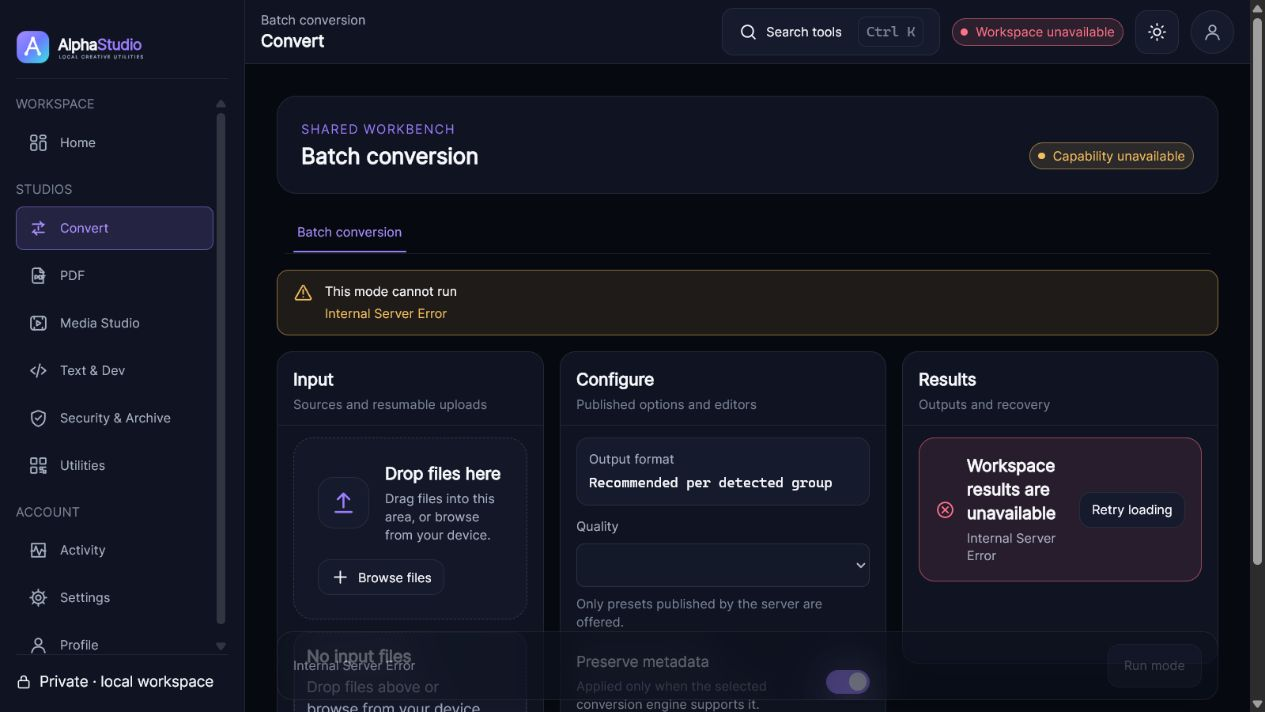
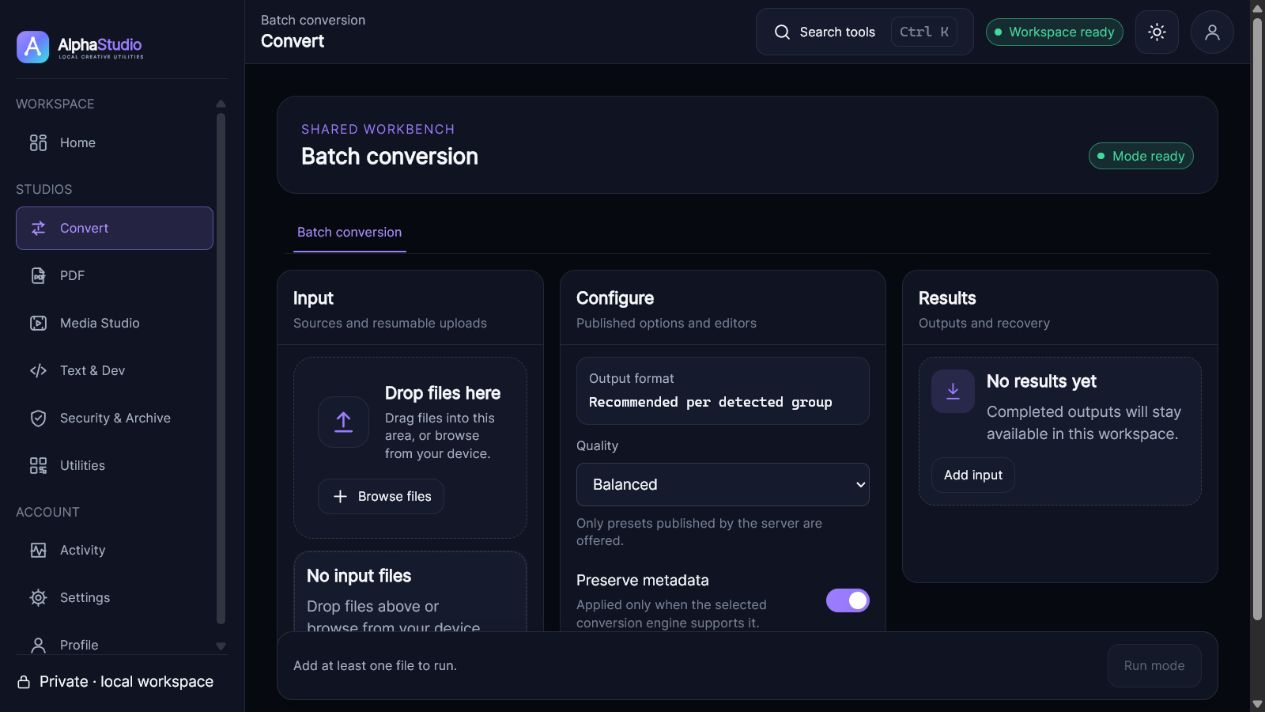
fix(convert): hydrate outputs and harden recovery actions

diff --git a/src/next/hooks/useConvertWorkbench.js b/src/next/hooks/useConvertWorkbench.js
@@ -183,28 +183,33 @@ export default function useConvertWorkbench({ enabled, mode }) {
       && ['queued', 'running'].includes(job.status)
       && grouping.groups.some((group) => jobTouchesFileIds(job, group.fileIds))
     ));
+    const failures = [];
     await Promise.all(active.map(async (job) => {
       const key = optimisticRequest('cancel', job.id);
       try {
         applyPoll({ job: await api.cancelJob(job.id) });
+      } catch (error) {
+        failures.push(failedReason(error));
       } finally {
         resolveRequest(key);
       }
     }));
+    if (failures.length) setActionError(failures[0]);
   }, [grouping.groups, snapshot.jobs]);
 
   const onRetry = useCallback(async (job) => {
     if (!snapshot.workspaceId) return;
     setActionError('');
-    const body = buildConvertRetryRequest({
-      workspaceId: snapshot.workspaceId,
-      job,
-      clientRequestId: requestId('convert-retry'),
-    });
-    const key = optimisticRequest('convert', job.id, {
-      clientRequestId: body.clientRequestId,
-    });
+    let key = '';
     try {
+      const body = buildConvertRetryRequest({
+        workspaceId: snapshot.workspaceId,
+        job,
+        clientRequestId: requestId('convert-retry'),
+      });
+      key = optimisticRequest('convert', job.id, {
+        clientRequestId: body.clientRequestId,
+      });
       const next = await api.createJob(body);
       applyPoll({ job: next });
       rememberActiveJob('convert', 'convert', next.id);
@@ -212,7 +217,7 @@ export default function useConvertWorkbench({ enabled, mode }) {
     } catch (error) {
       setActionError(failedReason(error));
     } finally {
-      resolveRequest(key);
+      if (key) resolveRequest(key);
     }
   }, [snapshot.workspaceId]);
 
@@ -222,6 +227,8 @@ export default function useConvertWorkbench({ enabled, mode }) {
     try {
       await api.removeWorkspaceFile(snapshot.workspaceId, file.id);
       await hydrate({ route: 'convert' });
+    } catch (error) {
+      setActionError(failedReason(error));
     } finally {
       resolveRequest(key);
     }
@@ -233,14 +240,20 @@ export default function useConvertWorkbench({ enabled, mode }) {
     try {
       await api.deleteJob(id);
       await hydrate({ route: 'convert' });
+    } catch (error) {
+      setActionError(failedReason(error));
     } finally {
       resolveRequest(key);
     }
   }, []);
 
   const onDiscardUpload = useCallback(async (session) => {
-    await api.cancelUploadSession(session.id);
-    if (snapshot.workspaceId) await recoverUploadSessions(snapshot.workspaceId);
+    try {
+      await api.cancelUploadSession(session.id);
+      if (snapshot.workspaceId) await recoverUploadSessions(snapshot.workspaceId);
+    } catch (error) {
+      setActionError(failedReason(error));
+    }
   }, [snapshot.workspaceId]);
 
   const onResumeUpload = useCallback(() => {
@@ -270,11 +283,23 @@ export default function useConvertWorkbench({ enabled, mode }) {
     onRemoveResult,
     onResumeUpload,
     onDiscardUpload,
-    onDownload: (result) => api.downloadJob(result.jobId, result.name),
-    onDownloadBatch: (outputs) => api.downloadOutputsZip(snapshot.workspaceId, {
-      outputIds: outputs.map((output) => output.id),
-      jobIds: outputs.map((output) => output.jobId),
-    }),
+    onDownload: async (result) => {
+      try {
+        await api.downloadJob(result.jobId, result.name);
+      } catch (error) {
+        setActionError(failedReason(error));
+      }
+    },
+    onDownloadBatch: async (outputs) => {
+      try {
+        await api.downloadOutputsZip(snapshot.workspaceId, {
+          outputIds: outputs.map((output) => output.id),
+          jobIds: outputs.map((output) => output.jobId),
+        });
+      } catch (error) {
+        setActionError(failedReason(error));
+      }
+    },
     onRetryHydrate: () => hydrate({ route: 'convert' }),
   } : {};
 }

diff --git a/src/next/App.jsx b/src/next/App.jsx
@@ -159,7 +159,16 @@ export default function App() {
     if (!snapshot.workspaceId) return undefined;
     void recoverUploadSessions(snapshot.workspaceId).catch(() => {});
     const subscription = connectWorkspaceEvents(snapshot.workspaceId, {
-      onEvent: applyEvent,
+      onEvent: (event) => {
+        applyEvent(event);
+        const job = event?.job && typeof event.job === 'object' ? event.job : event;
+        if (isTerminalStatus(job?.status)) {
+          // Outputs are registered before the terminal event but are not
+          // duplicated into that event envelope. Re-hydrate once so Results
+          // receives the authoritative output row immediately.
+          void hydrate();
+        }
+      },
       onResync: () => {
         void hydrate();
       },

diff --git a/src/tests/convert-hub.test.jsx b/src/tests/convert-hub.test.jsx
@@ -75,7 +75,8 @@ describe('E1 Convert hub config', () => {
 
   it('wires hydrate, one workspace event owner, and the protocol upload orchestrator', () => {
     expect(APP_SOURCE).toContain('connectWorkspaceEvents(snapshot.workspaceId');
-    expect(APP_SOURCE).toContain('onEvent: applyEvent');
+    expect(APP_SOURCE).toContain('applyEvent(event)');
+    expect(APP_SOURCE).toContain('isTerminalStatus(job?.status)');
     expect(APP_SOURCE).toContain('void hydrate(');
     expect(CONTROLLER_SOURCE).toContain('createUploadTask(file');
     expect(CONTROLLER_SOURCE).toContain('buildConvertRetryRequest');

diff --git a/src/styles/workbench.css b/src/styles/workbench.css
@@ -102,6 +102,10 @@
   background: var(--surface);
 }
 
+.workbench__run .run-bar.is-disabled {
+  opacity: 1;
+}
+
 @media (width < 1200px) {
   .workbench__workspace {
     grid-template-columns: repeat(2, minmax(0, 1fr));

diff --git a/evidence/unit-15.md b/evidence/unit-15.md
@@ -1,0 +1,51 @@
+# Unit 15 — E1 Convert hub
+
+## Outcome
+
+The `#/convert` route is now an operational config-driven Workbench. It uses
+the protocol store as workspace truth, the upload orchestrator for multipart
+and resumable files, detect-derived conversion groups, immutable job attempts,
+terminal-event output hydration, scoped cancellation, inline retry/remove
+recovery, and single/batch downloads.
+
+## Acceptance evidence
+
+- Hub config: complete normative mode shape with `converter.batch`,
+  `buildConvertJobOptions`, files input, server-published quality options, and
+  file results. No client format or MIME catalogue.
+- Upload: browser uploaded `fixtures/converter/sample.png`; the FileRow became
+  `Ready` and Configure changed to `1 detected group`.
+- Run/live sync: the UI created a converter job, showed `Running 1 job`,
+  exposed scoped Cancel, and the sidebar showed `1 active jobs`.
+- Terminal/output: browser live announcement reported
+  `sample.webp completed`; after the terminal hydrate fix, Results gained the
+  completed row without a manual reload. A second live run proved the same
+  path and rendered two completed outputs.
+- Single artifact: `GET /api/jobs/<id>/download` returned a 778-byte
+  RIFF/WEBP file (`52-49-46-46 ... 57-45-42-50`).
+- Batch artifact: the workspace ZIP endpoint returned a 1,250-byte valid ZIP
+  containing two non-empty 778-byte WEBP entries.
+- Reload: the populated workspace rehydrated with its input and completed
+  outputs intact.
+- Resume/retry semantics are pinned by the B4 protocol suite and E1 builder
+  tests: resumable tasks adopt/continue server sessions, retry requires a new
+  client request id and creates a new immutable row.
+
+## Verification
+
+- `npm run test:client -- --run` — 21 files, 414 tests passed.
+- `npm run typecheck` — passed.
+- `npm run build` — client and server passed.
+- `npm run visual:checks` — token purity, motion purity, and contrast passed.
+- `git diff --check` — passed.
+- Browser runtime log after the final reload — zero new console errors.
+- Visual review initially blocked the translucent/over-muted mobile RunBar.
+  The bar now uses an opaque surface, avoids double disabled opacity, and
+  reserves one RunBar height of mobile scroll space. Re-review: **SHIP**.
+
+## Screenshots
+
+- `evidence/unit-15-convert-desktop.png`
+- `evidence/unit-15-convert-mobile.png`
+
+The captures use the live local API and show `Workspace ready` / `Mode ready`.
